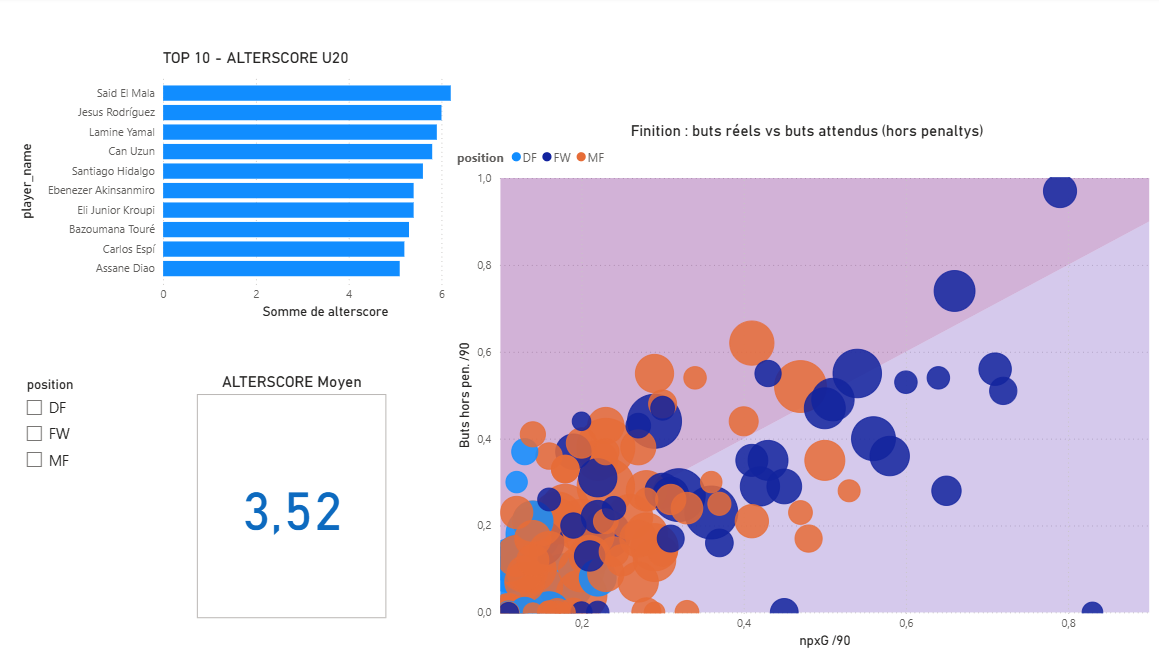
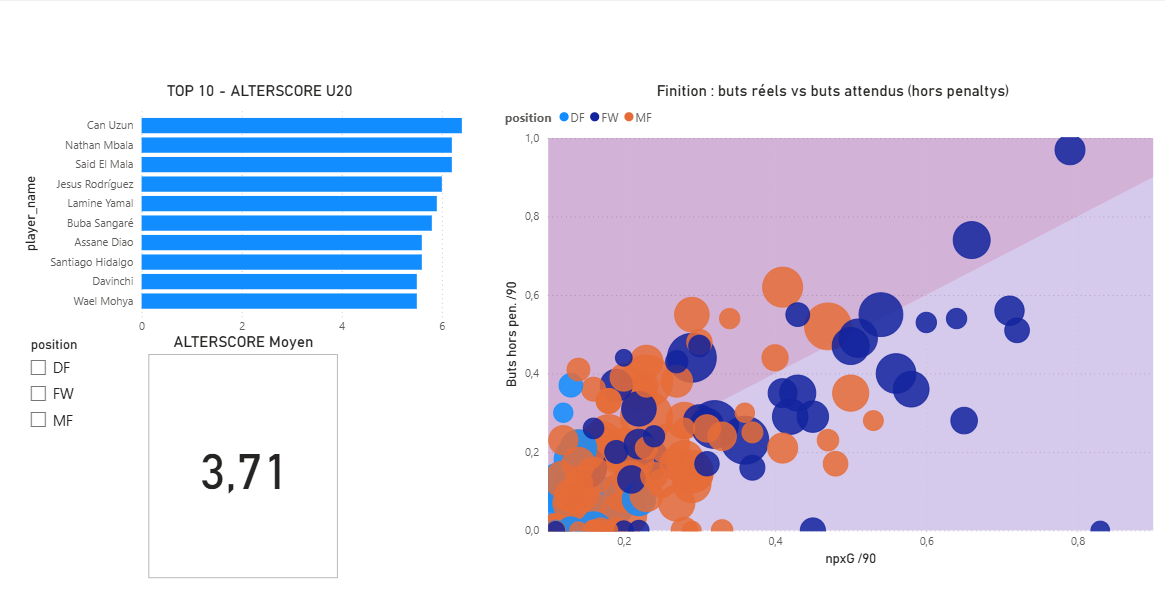
feat: coef_fiab decroissant avec l'age pour ne plus penaliser les tres jeunes

diff --git a/README.md b/README.md
@@ -13,7 +13,7 @@ L'**ALTERSCORE** est un indice composite sur 10 qui évalue le potentiel d'un jo
 - Sa régularité (% du temps de jeu disponible)
 - Un bonus jeunesse (17→18→19→20 ans)
 - Un coefficient d'exposition médiatique (malus/bonus club, basé sur le niveau réel de l'équipe)
-- Un coefficient de fiabilité (basé sur le volume de minutes)
+- Un coefficient de fiabilité (basé sur le volume de minutes, avec un seuil qui descend avec l'âge)
 
 ## 📊 Dashboard Power BI
 
@@ -145,6 +145,32 @@ critères. Les termes techniques (npxG, PPM, min%…) sont définis dans le
 Tous les postes intègrent un bonus jeunesse dégressif et un coefficient de fiabilité basé
 sur le volume de minutes jouées.
 
+**Sur le coefficient de fiabilité et son seuil dépendant de l'âge** : une statistique par
+90 minutes calculée sur 400 minutes est bien moins fiable que la même sur 2500. Le
+coefficient (`0.5 + minutes / seuil`, plafonné à 1.0) décote donc les petits échantillons.
+Il ne dit pas "ce joueur est moins bon", mais "je n'ai pas encore assez de données pour me
+prononcer".
+
+Dans sa première version, le seuil de pleine confiance était fixe à 1500 minutes pour tout
+le monde — et ça allait directement contre l'objectif du projet. Un joueur de 16 ans joue
+peu *parce qu'il a 16 ans*, pas parce qu'il est mauvais. En comparant le classement avec et
+sans ce coefficient, cinq des six joueurs les plus décotés avaient 16 ou 17 ans : le bonus
+jeunesse (×1.4 à 17 ans) et le coefficient de fiabilité (×0.65) se neutralisaient l'un
+l'autre. Le seuil descend donc maintenant avec l'âge :
+
+| Âge | Minutes pour atteindre la pleine confiance |
+| --- | ----------------------------------------- |
+| ≤ 17 | 600 |
+| 18 | 900 |
+| 19 | 1200 |
+| ≥ 20 | 1500 |
+
+Effet concret : Nathan Mbala (17 ans, 441 minutes à Metz) passe de 4.6 à 6.2 et entre dans
+le top 3 ; Wael Mohya (16 ans, 552 minutes en Bundesliga) passe de 3.9 à 5.5. Les joueurs
+de 20 ans sont inchangés. L'arbitrage reste réel et assumé : détecter tôt suppose
+d'accepter un échantillon plus mince, exactement là où le risque de surinterpréter est le
+plus fort.
+
 **La formule est définie une seule fois**, dans la vue SQL `v_alterscore`
 (`sql/00_view_alterscore.sql`). Le top 10 SQL, l'export Power BI et l'export vitrine
 lisent cette vue plutôt que de recopier le calcul — voir "Limites connues" pour le bug
@@ -201,7 +227,12 @@ volontairement documentés plutôt que masqués :
   reproductibilité, mais les clusters ne sont pas garantis stables si on relance avec
   d'autres seeds. Pas de test de robustesse (multi-seeds, bootstrap) à ce stade.
 - **Pondérations choisies à la main.** Les poids de l'ALTERSCORE sont fixés par jugement
-  métier, pas appris ou optimisés sur une cible externe.
+  métier, pas appris ou optimisés sur une cible externe. C'est aussi vrai des seuils du
+  coefficient de fiabilité par âge (600 / 900 / 1200 / 1500 minutes) : ils traduisent une
+  intuition défendable — un joueur de 16 ans qui atteint 600 minutes dans un grand
+  championnat a déjà prouvé quelque chose — mais ils ne sont calibrés sur aucune donnée.
+  Une version plus rigoureuse mesurerait à partir de quel volume de minutes une statistique
+  par 90 se stabilise réellement, par tranche d'âge.
 - **Variables limitées, et ce n'est pas (que) un choix.** FBref a perdu l'accès à ses
   données avancées fournies par Opta le 20 janvier 2026, suite à une rupture de contrat
   avec Stats Perform
